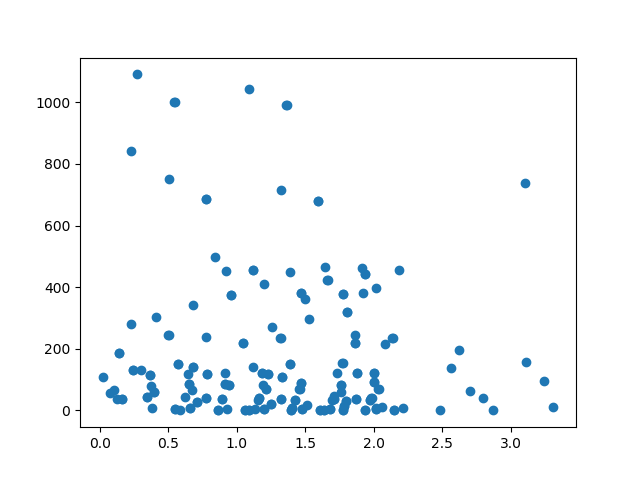
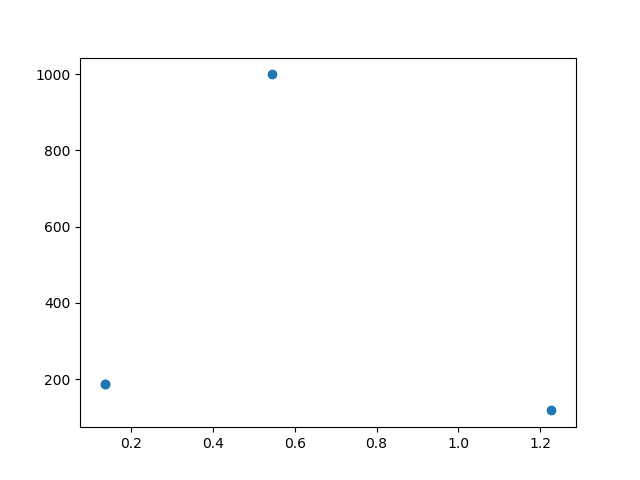
Made bumps tester

diff --git a/hklgen/examples/sxtal/epGreedy/epGreedyBumpsTest.py b/hklgen/examples/sxtal/epGreedy/epGreedyBumpsTest.py
@@ -1,21 +1,6 @@
 """
-Filename: epGreedyAnnealing.py
-Authors: Ryan Cho and Telon Yan
-Implements a modified epsilon-greedy algorithm for pycrysfml, but can be
-used for similar scenarios. For crystallography, since one may not visit
-individual HKL values more than once, what happens is:
-We have a 1 - epsilon + k*epsilon/n chance of visiting a state/machine
-whose expected reward is highest (e.g. 0.5, there may be ties) and an
-epsilon/n chance of visiting one of the states/slot machines whose
-expected reward is not the highest (where k is the number of states with
-a tied max reward, such as 0.5, and n is the total number of possible HKL
-values to go to next).
-Code borrowed from:
-https://imaddabbura.github.io/blog/data%20science/2018/03/31/epsilon-Greedy-Algorithm.html
-https://github.com/scattering/crystal-rl
-https://github.com/scattering/pycrysfml
+This is to test for any inconsistencies in Bumps
 """
-
 import os,sys;sys.path.append(os.path.dirname(os.path.dirname(os.path.dirname(os.path.dirname(os.path.abspath(__file__))))))
 import random
 import numpy as np
@@ -33,8 +18,6 @@ import  bumps.names  as bumps
 import bumps.fitters as fitter
 from bumps.formatnum import format_uncertainty_pm
 
-#Crystal model stuff
-
 np.seterr(divide="ignore",invalid="ignore")
 
 #Set data files
@@ -50,7 +33,6 @@ wavelength, refList, sfs2, error = S.readIntFile(observedFile, kind="int", cell=
 tt = [H.twoTheta(H.calcS(crystalCell, ref.hkl), wavelength) for ref in refList]
 backg = None
 exclusions = []
-
 
 def setInitParams():
     #Make a cell
@@ -77,16 +59,6 @@ def fit(model):
     fitted = fitter.LevenbergMarquardtFit(problem)
     x, dx = fitted.solve(monitors=[monitor])
     return x, dx, problem.chisq()
-
-#Beacuse I don't actually know how to use pycrysfml and bumps yet and just want something working, here's a fakeFit method that fakes the fit() method
-def fakeFit(model):
-    #x should be the predicted hkl positon, dx is the error, and chisq is the chi squared value
-    #model should be of class "Model" in the sxtal_model program, but for now it doesn't matter
-    x = random.random()
-    dx = random.random()
-    chisq = random.random()*150
-    return x, dx, chisq
-
 
 class EpsilonGreedy():
     
@@ -136,30 +108,9 @@ class EpsilonGreedy():
         return maxIndices
     #Chooses an HKL value to go to using bestReward, ignoring hkls already visited. Returns the index of the hkl chosen
     def select_action(self):
-        coin = random.random()
-        choice = 0
-        
-        #Exploit - Pick among the options (tied) with the best expected reward
-        if coin > self.epsilon:
-#            prin)
-            choice = random.choice(self.bestReward())
-            self.visited.append(choice)
-            self.visited.sort()
-            
-        #Explore - Pick a choice at random
-        else:
-#            print
-            choices = list(self.values)
-            choices_indices = []
-            for i in range(len(self.values)):
-                choices_indices.append(i)
-            for i in self.visited:
-                choices_indices.remove(i)
-                
-            choice = random.choice(choices_indices)
-            self.visited.append(choice)
-            self.visited.sort()
-            
+        choice = len(self.visited)
+        self.visited.append(choice)
+        self.visited.sort()
         return int(choice)
 
     #Updates the counts of hkls visited and their expected reward with new data
@@ -173,22 +124,6 @@ class EpsilonGreedy():
 	self.epsilon = 1 / np.log(t + 0.0000001)
         return
 
-def sorter(model, actionIndexList):
-    numActions = len(actionIndexList)
-
-    refListSorted = np.zeros(numActions)
-    errorSorted = np.zeros(numActions)
-    ttSorted = np.zeros(numActions)
-    intensitiesSorted = np.zeros(numActions)
-
-    refListSort = refList
-    model.refList = refList
-#    for i in range(numActions):
-#	refListSorted[actionIndexList[i]] = 
-#	errorSorted[actionIndexList[i]] = 
-
-#agent is the EpsilonGreedy() object, actions is a list of HKLs 
-#(each element of the list is a length 3 list: [h, k, l]), num_sims is an int, horizon is an int
 def test_algorithm(agent, actions, num_sims, horizon, numParameters):
 #    zInit = 0.3
     for simulation in range(num_sims):
@@ -269,17 +204,20 @@ def test_algorithm(agent, actions, num_sims, horizon, numParameters):
 	    if (((t > 10) and chiSq < 1.5) or (t > 100)):
 		break
 
-	if (simulation % 10 == 0):
-	    file2 = open("Rewards" + str(simulation) + ".txt", "w")
-	    file2.write("Number of epochs: " + str(simulation))
-	    np.savetxt("Rewards" + str(simulation) + ".txt", agent.values)
-	    file2.close()
+#	if (simulation % 10 == 0):
+#	    file2 = open("Rewards" + str(simulation) + ".txt", "w")
+#	    file2.write("Number of epochs: " + str(simulation))
+#	    np.savetxt("Rewards" + str(simulation) + ".txt", agent.values)
+#	    file2.close()
 
 	#Observed sfs2 values (
-	x1 = sfs2
-	y = H.calcStructFact() #model.theory()
+	x1 = sfs2[0:4]
+	y = model.theory() #H.calcstructfact()
+	print(y)
+	print(x1)
 	plt.scatter(qSquared,y)
 	plt.savefig("Calc sfs2 vs Qsq " + str(simulation) + ".png") 
+	plt.figure()
 	plt.scatter(qSquared,x1)
 	plt.savefig("Obs sfs2 vs Qsq " + str(simulation) + ".png")
 
@@ -287,29 +225,10 @@ def test_algorithm(agent, actions, num_sims, horizon, numParameters):
 
 #	zInit = model.atomListModel.atomModels[0].z.value
         file.close()
-
+        
     return
 
-#def __main__():
-#for i in refList:
-#    for j in i:
-#        print(j)
-
-
-#x2 = sfs2#
-
-#model1 = setInitParams()
-#model1.refList = H.ReflectionList(refList)
-#model1._set_reflections()
-#model1.error = error
-#model1.tt  = tt
-#model1._set_observations(sfs2)
-
-#y1 = model1.theory()
-
-#plt.scatter(x2,y1)
-#plt.savefig('sfs2stest.png') 
-
 agent = EpsilonGreedy(1, np.zeros(len(refList)), np.ones(len(refList)))
-test_algorithm(agent, refList, 1, len(refList), 1)
+#test_algorithm(agent, refList, 1, len(refList), 1)
+test_algorithm(agent, refList, 1, 4, 1)
 print("done")
